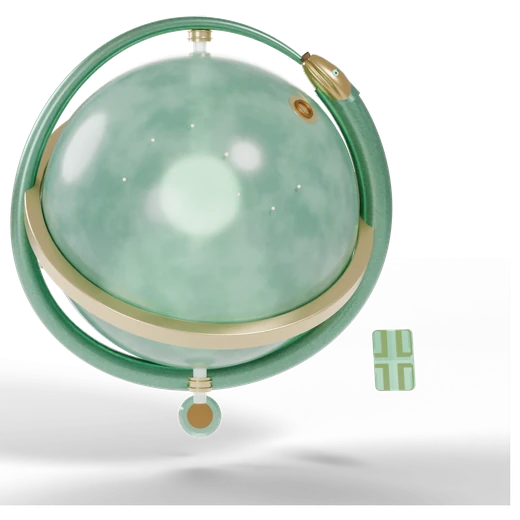
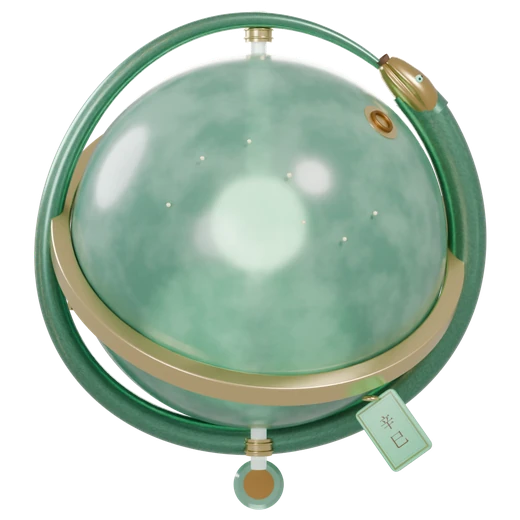
fix(jade): 玉牌坠于蛇环外侧并修正挤压体UV，接触阴影改页面CSS并重出主视觉

diff --git a/src/scripts/jade/build-jade.ts b/src/scripts/jade/build-jade.ts
@@ -804,6 +804,26 @@ export function buildJadeModel(options: { quality?: 'high' | 'low' } = {}): Jade
     curveSegments: hi ? 10 : 5,
   });
   tabletGeo.center();
+  // ExtrudeGeometry 的默认 UV 是"模型单位"而不是 0..1，直接贴图只会采到左下角一小块（渲成十字纹）。
+  // 这里按法线重新铺 UV：正反面按 x/y 归一化，侧壁按周长/厚度铺。
+  {
+    const pos = tabletGeo.attributes.position;
+    const nor = tabletGeo.attributes.normal;
+    const uvs = new Float32Array(pos.count * 2);
+    for (let i = 0; i < pos.count; i += 1) {
+      const nx = nor.getX(i);
+      const ny = nor.getY(i);
+      const nz = nor.getZ(i);
+      if (Math.abs(nz) >= 0.5) {
+        uvs[i * 2] = pos.getX(i) / (2 * tw) + 0.5;
+        uvs[i * 2 + 1] = pos.getY(i) / (2 * th) + 0.5;
+      } else {
+        uvs[i * 2] = (Math.atan2(nx, ny) / Math.PI) * 0.5 + 0.5;
+        uvs[i * 2 + 1] = pos.getZ(i) / 0.05 + 0.5;
+      }
+    }
+    tabletGeo.setAttribute('uv', new THREE.BufferAttribute(uvs, 2));
+  }
   const tabletMat = new THREE.MeshPhysicalMaterial({
     color: new THREE.Color('#b9e0c9'),
     map: createTabletTexture('辛', '巳'),
@@ -816,10 +836,22 @@ export function buildJadeModel(options: { quality?: 'high' | 'low' } = {}): Jade
   tabletMat.name = 'mat-tablet';
   const tablet = new THREE.Mesh(tabletGeo, tabletMat);
   tablet.name = 'xin-si-tablet';
-  // 参考图的辛巳牌挂在右下方、与蛇环之间留出空隙；贴在环上会读成"挂在蛇身上的标签"。
-  tablet.position.set(1.16, -0.88, 0.54);
-  tablet.rotation.set(-0.04, -0.46, 0.06);
+  // 参考图的辛巳牌坠在蛇环右下方外侧，牌面朝观众、长轴顺半径向外；离环太远会读成"浮在空中的绿卡片"，
+  // 所以外沿半径取 1.16（环 1.14），并用一枚金环把牌顶与蛇环连起来。
+  const tabletAngle = -Math.PI * 0.30;
+  const tabletR = 1.16;
+  tablet.position.set(Math.cos(tabletAngle) * tabletR, Math.sin(tabletAngle) * tabletR, 0.55);
+  tablet.rotation.set(-0.05, -0.30, tabletAngle + Math.PI / 2);
   root.add(tablet);
+
+  const tabletLink = new THREE.Mesh(
+    new THREE.TorusGeometry(0.034, 0.011, 10, hi ? 24 : 12),
+    ringMat,
+  );
+  tabletLink.name = 'tablet-link';
+  tabletLink.position.set(Math.cos(tabletAngle) * (tabletR - 0.20), Math.sin(tabletAngle) * (tabletR - 0.20), 0.55);
+  tabletLink.rotation.set(Math.PI / 2, 0, tabletAngle + Math.PI / 2);
+  root.add(tabletLink);
 
   // 8. 七星刻纹
   const stars = new THREE.Group();
